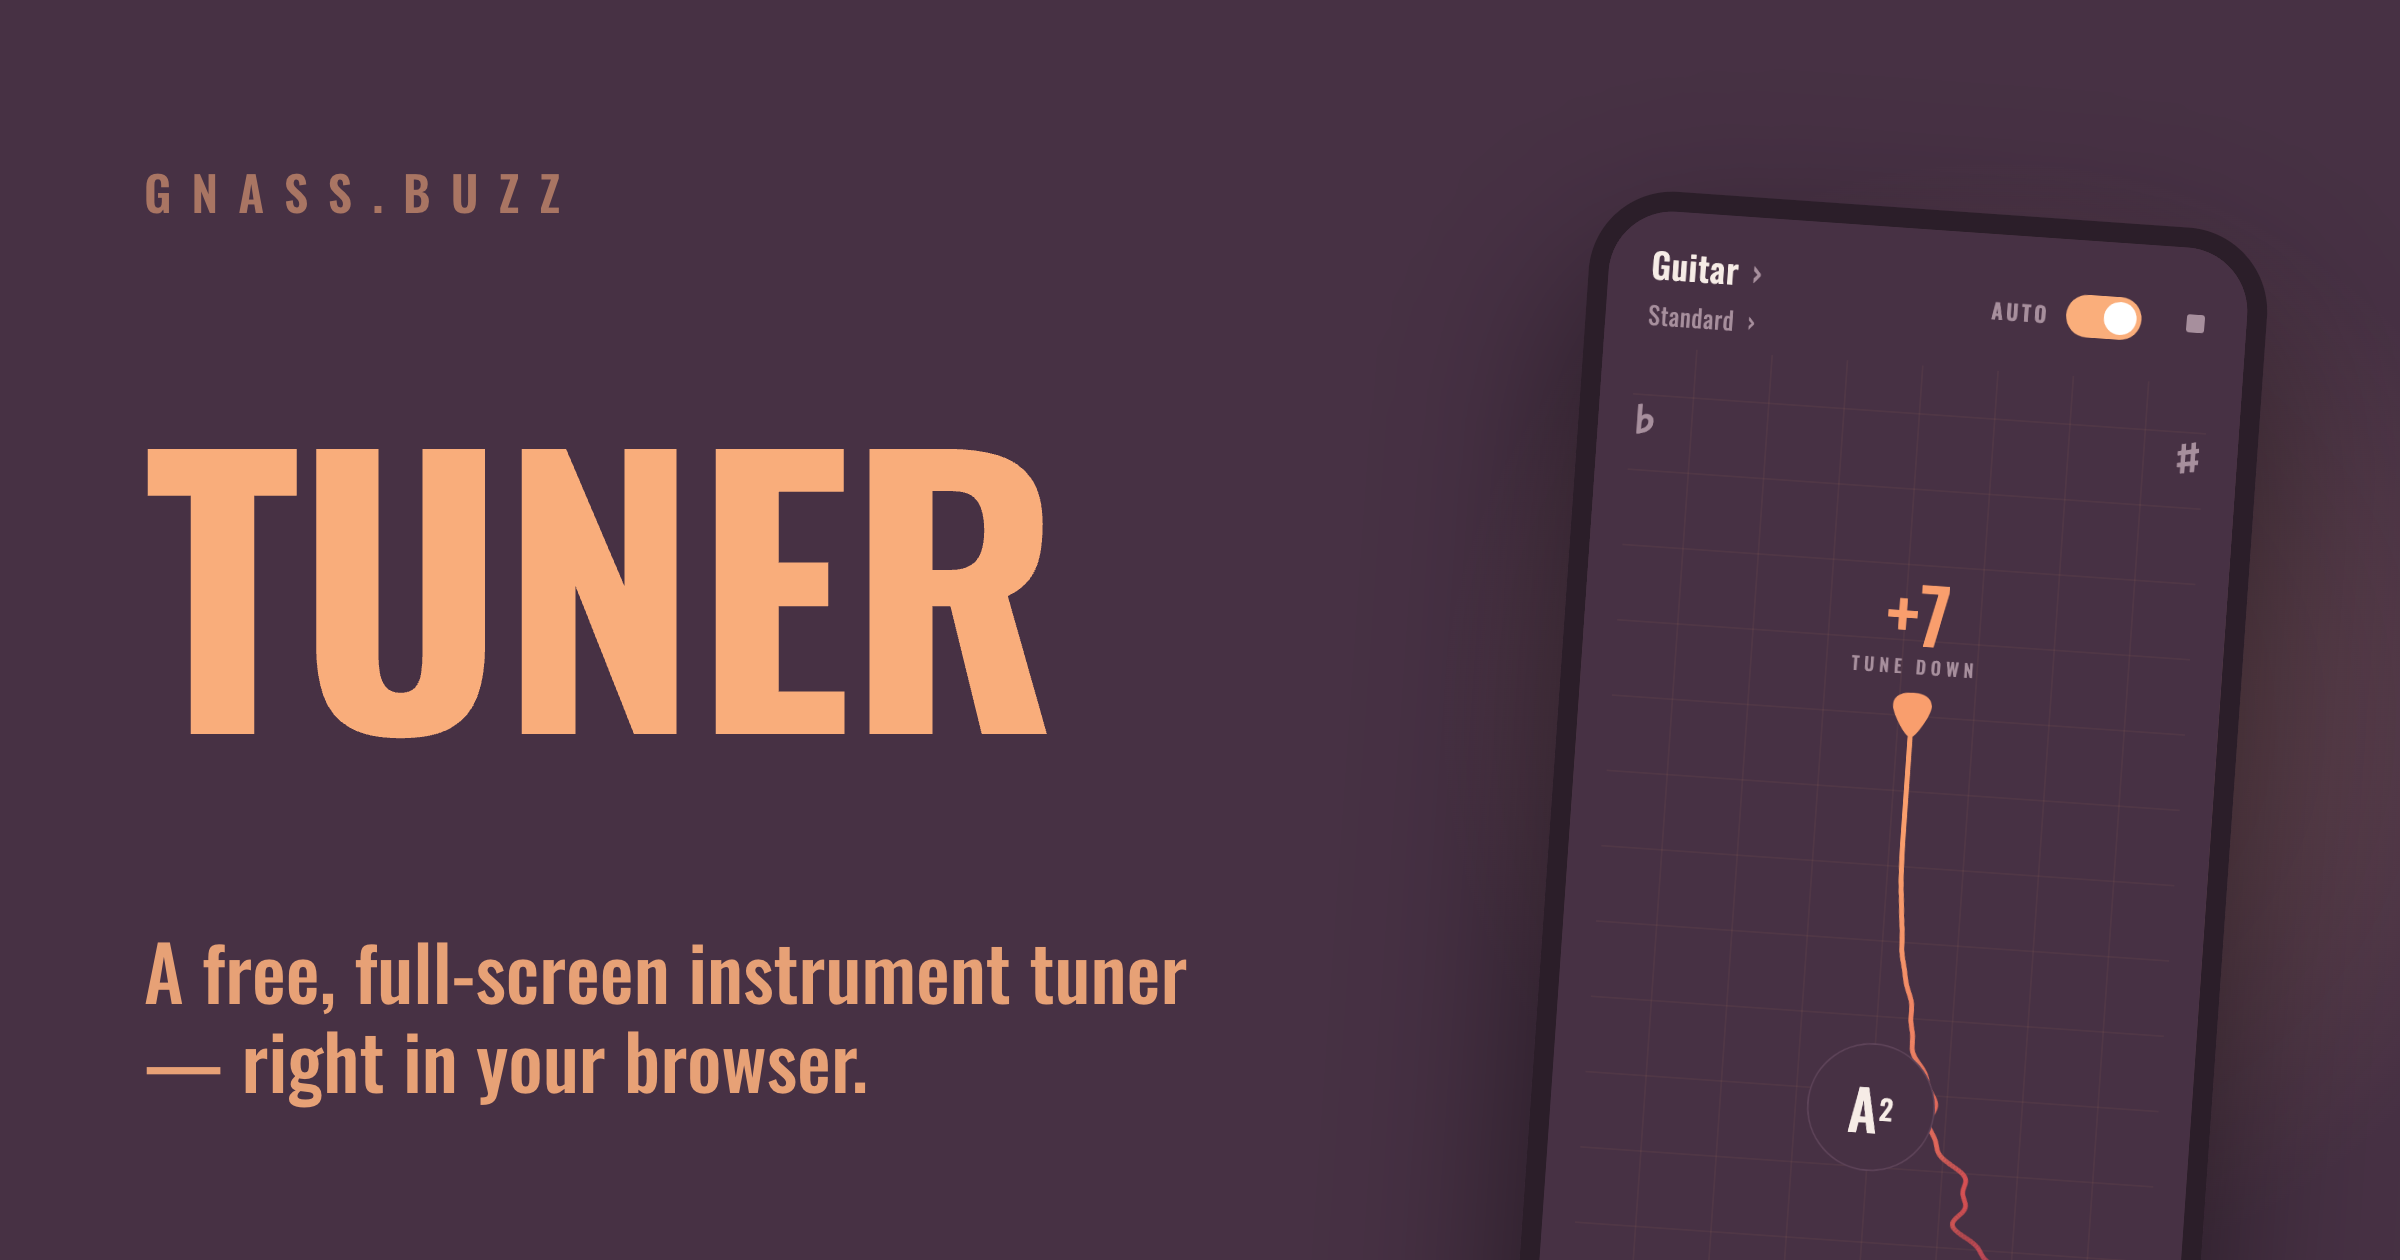
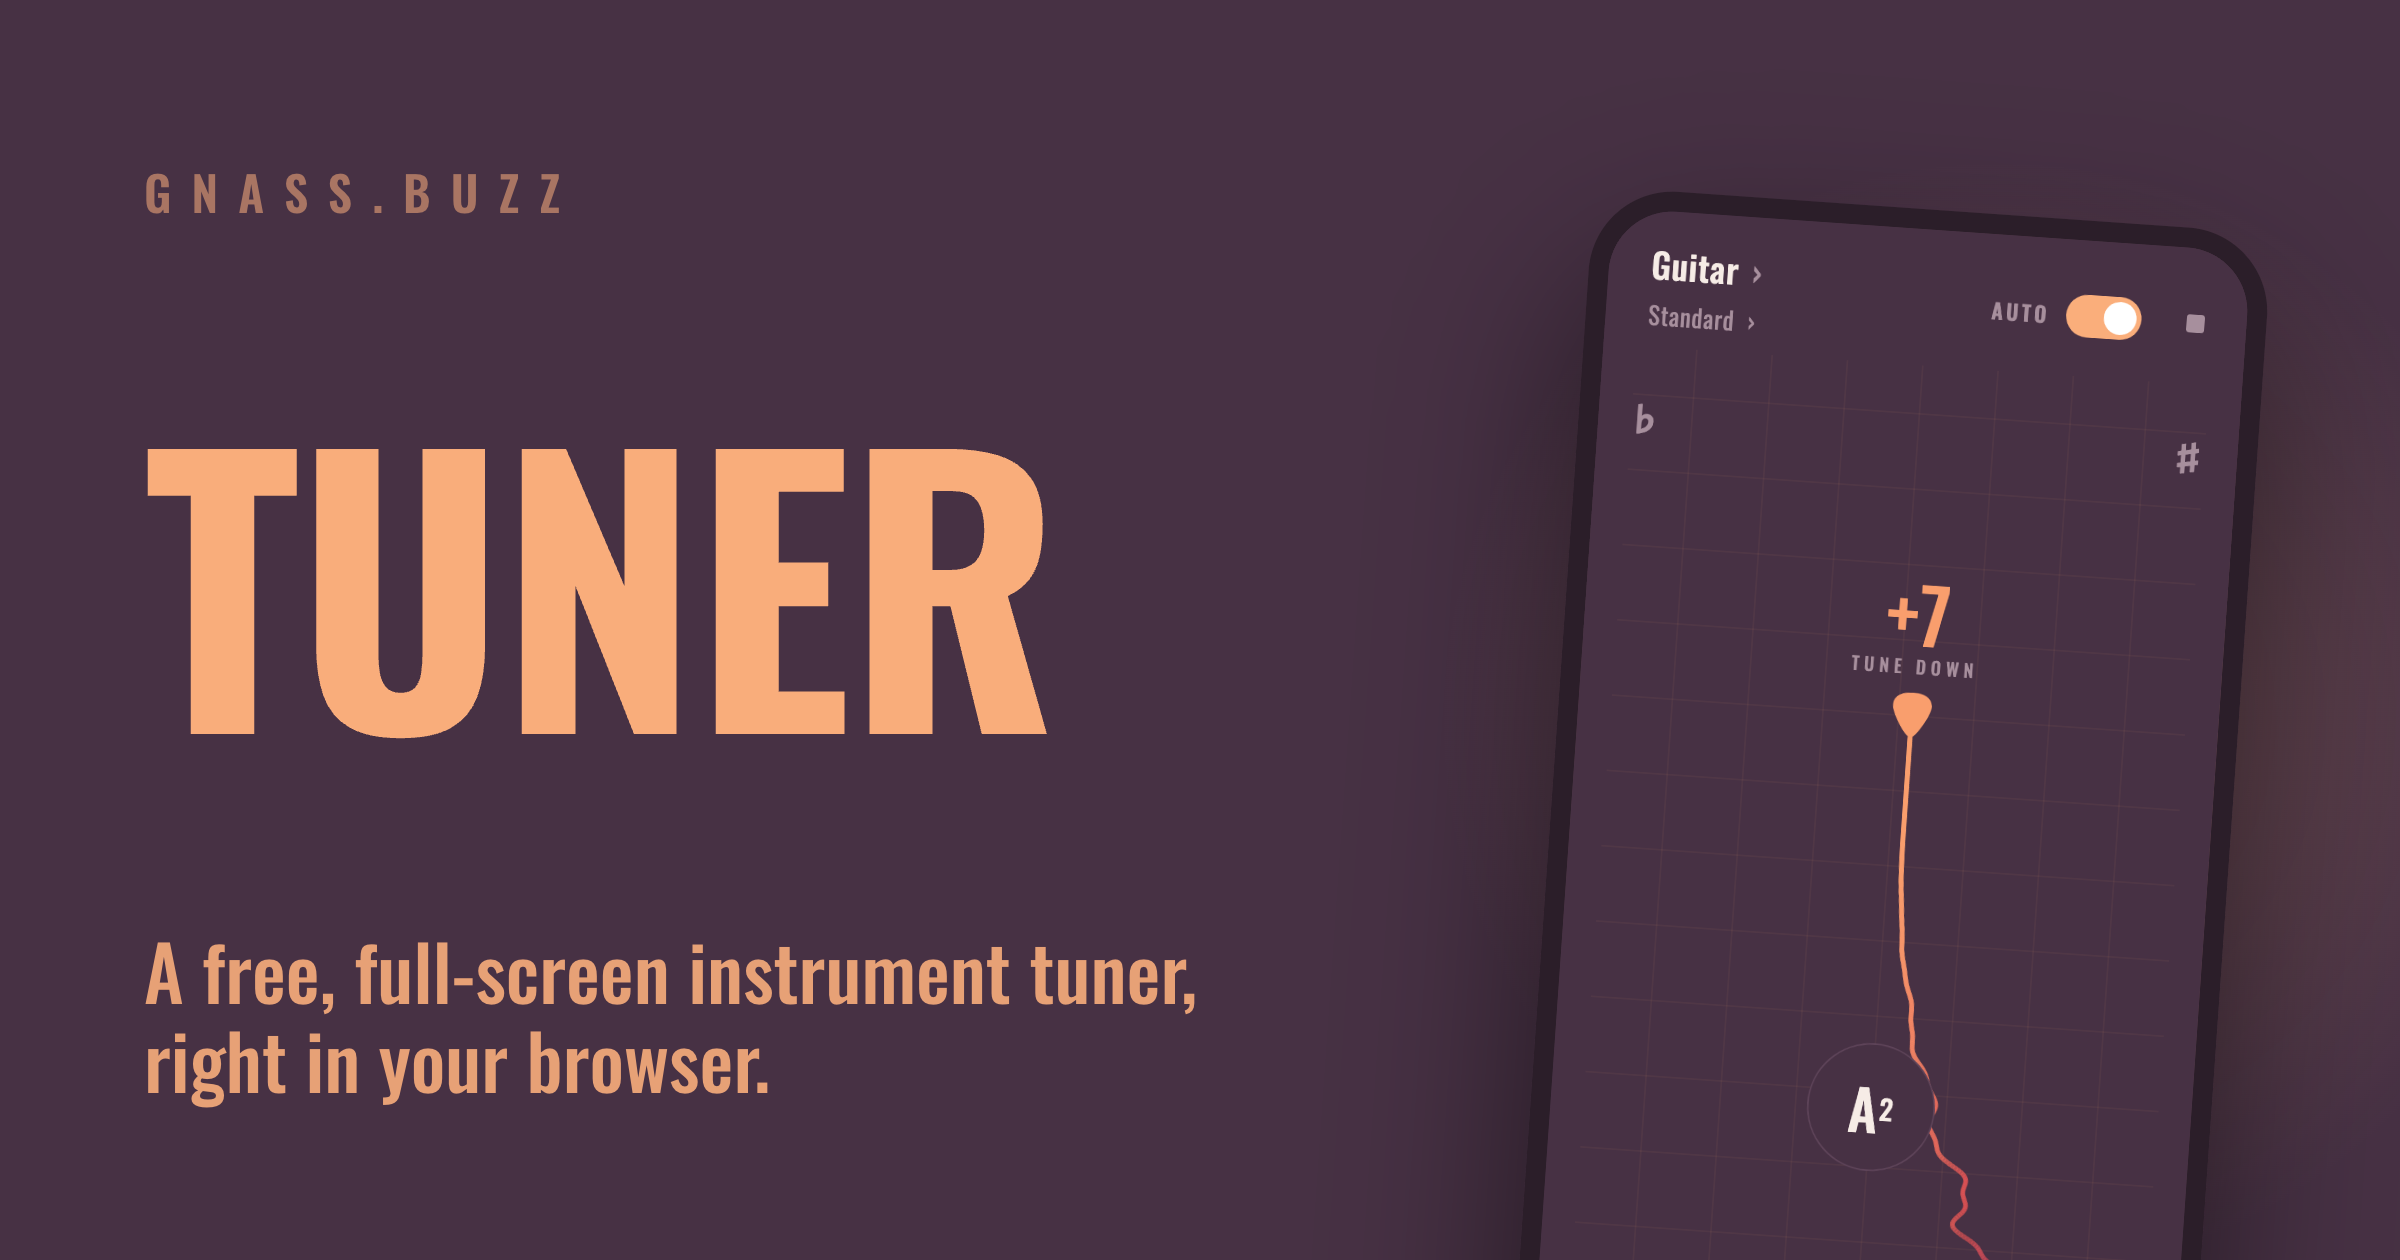
Drop em-dash from tuner OG image and description

Changed region(s): [[0.0625, 0.8048, 0.375, 0.8976]]

diff --git a/index.html b/index.html
@@ -15,7 +15,7 @@
     <title>Tuner</title>
     <meta
       name="description"
-      content="A free, full-screen instrument tuner that runs entirely in your browser — no app, no account, no network."
+      content="A free, full-screen instrument tuner that runs entirely in your browser. No app, no account, no network."
     />
 
     <!-- Open Graph / social preview (public/og.png, 2400×1260). -->
@@ -25,7 +25,7 @@
     <meta property="og:title" content="Tuner" />
     <meta
       property="og:description"
-      content="A free, full-screen instrument tuner that runs entirely in your browser — no app, no account, no network."
+      content="A free, full-screen instrument tuner that runs entirely in your browser. No app, no account, no network."
     />
     <meta property="og:image" content="https://tuner.gnass.buzz/og.png" />
     <meta property="og:image:width" content="2400" />
@@ -35,7 +35,7 @@
     <meta name="twitter:title" content="Tuner" />
     <meta
       name="twitter:description"
-      content="A free, full-screen instrument tuner that runs entirely in your browser — no app, no account, no network."
+      content="A free, full-screen instrument tuner that runs entirely in your browser. No app, no account, no network."
     />
     <meta name="twitter:image" content="https://tuner.gnass.buzz/og.png" />
   </head>
